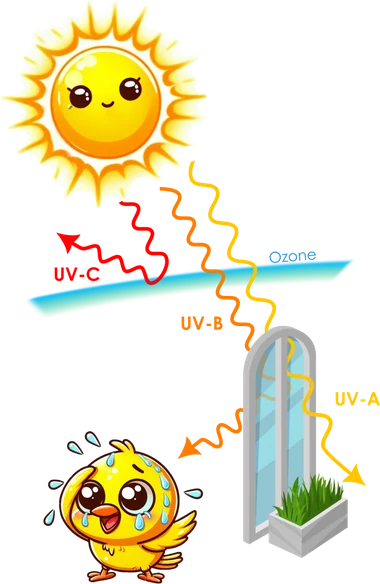
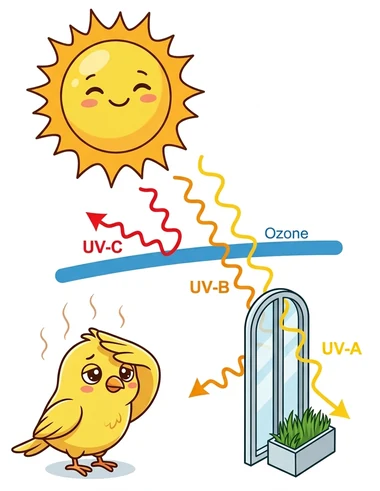
Science: redrawn UV figure in the new clipart style
Same diagram, same three bands: UV-C off the ozone, UV-B stopped by the
window and bouncing towards the bird, UV-A through the glass. Built from
media/SCIENCE/uv.png, which is 755px wide, so the largest size is 755
instead of 669. The bird now wilts in the heat rather than crying, and
the alt text says so.

diff --git a/science.html b/science.html
@@ -188,9 +188,9 @@
     <div class="sci-split">
       <div class="sci-fig-wrap">
           <picture>
-            <source type="image/webp" sizes="(min-width:900px) 34vw, 78vw" srcset="assets/img/fig-uv-380.webp 380w, assets/img/fig-uv-560.webp 560w, assets/img/fig-uv-669.webp 669w">
+            <source type="image/webp" sizes="(min-width:900px) 34vw, 78vw" srcset="assets/img/fig-uv-380.webp 380w, assets/img/fig-uv-560.webp 560w, assets/img/fig-uv-755.webp 755w">
             <img class="sci-fig sci-fig--plate" src="assets/img/fig-uv-560.png" loading="lazy"
-                 decoding="async" sizes="(min-width:900px) 34vw, 78vw" srcset="assets/img/fig-uv-380.png 380w, assets/img/fig-uv-560.png 560w, assets/img/fig-uv-669.png 669w" alt="A diagram of sunlight reaching the earth. UV-C reflects off the ozone layer. UV-B passes through the ozone layer but is stopped by window glass, reaching a sunburnt bird outdoors. UV-A passes through the glass to a planter of grass indoors.">
+                 decoding="async" sizes="(min-width:900px) 34vw, 78vw" srcset="assets/img/fig-uv-380.png 380w, assets/img/fig-uv-560.png 560w, assets/img/fig-uv-755.png 755w" alt="A diagram of sunlight reaching the earth. UV-C reflects off the ozone layer. UV-B passes through the ozone layer but is stopped by window glass, bouncing off it towards a bird outdoors who is wilting in the heat. UV-A passes through the glass to a planter of grass indoors.">
           </picture>
       </div>
       <div class="sci-body">
